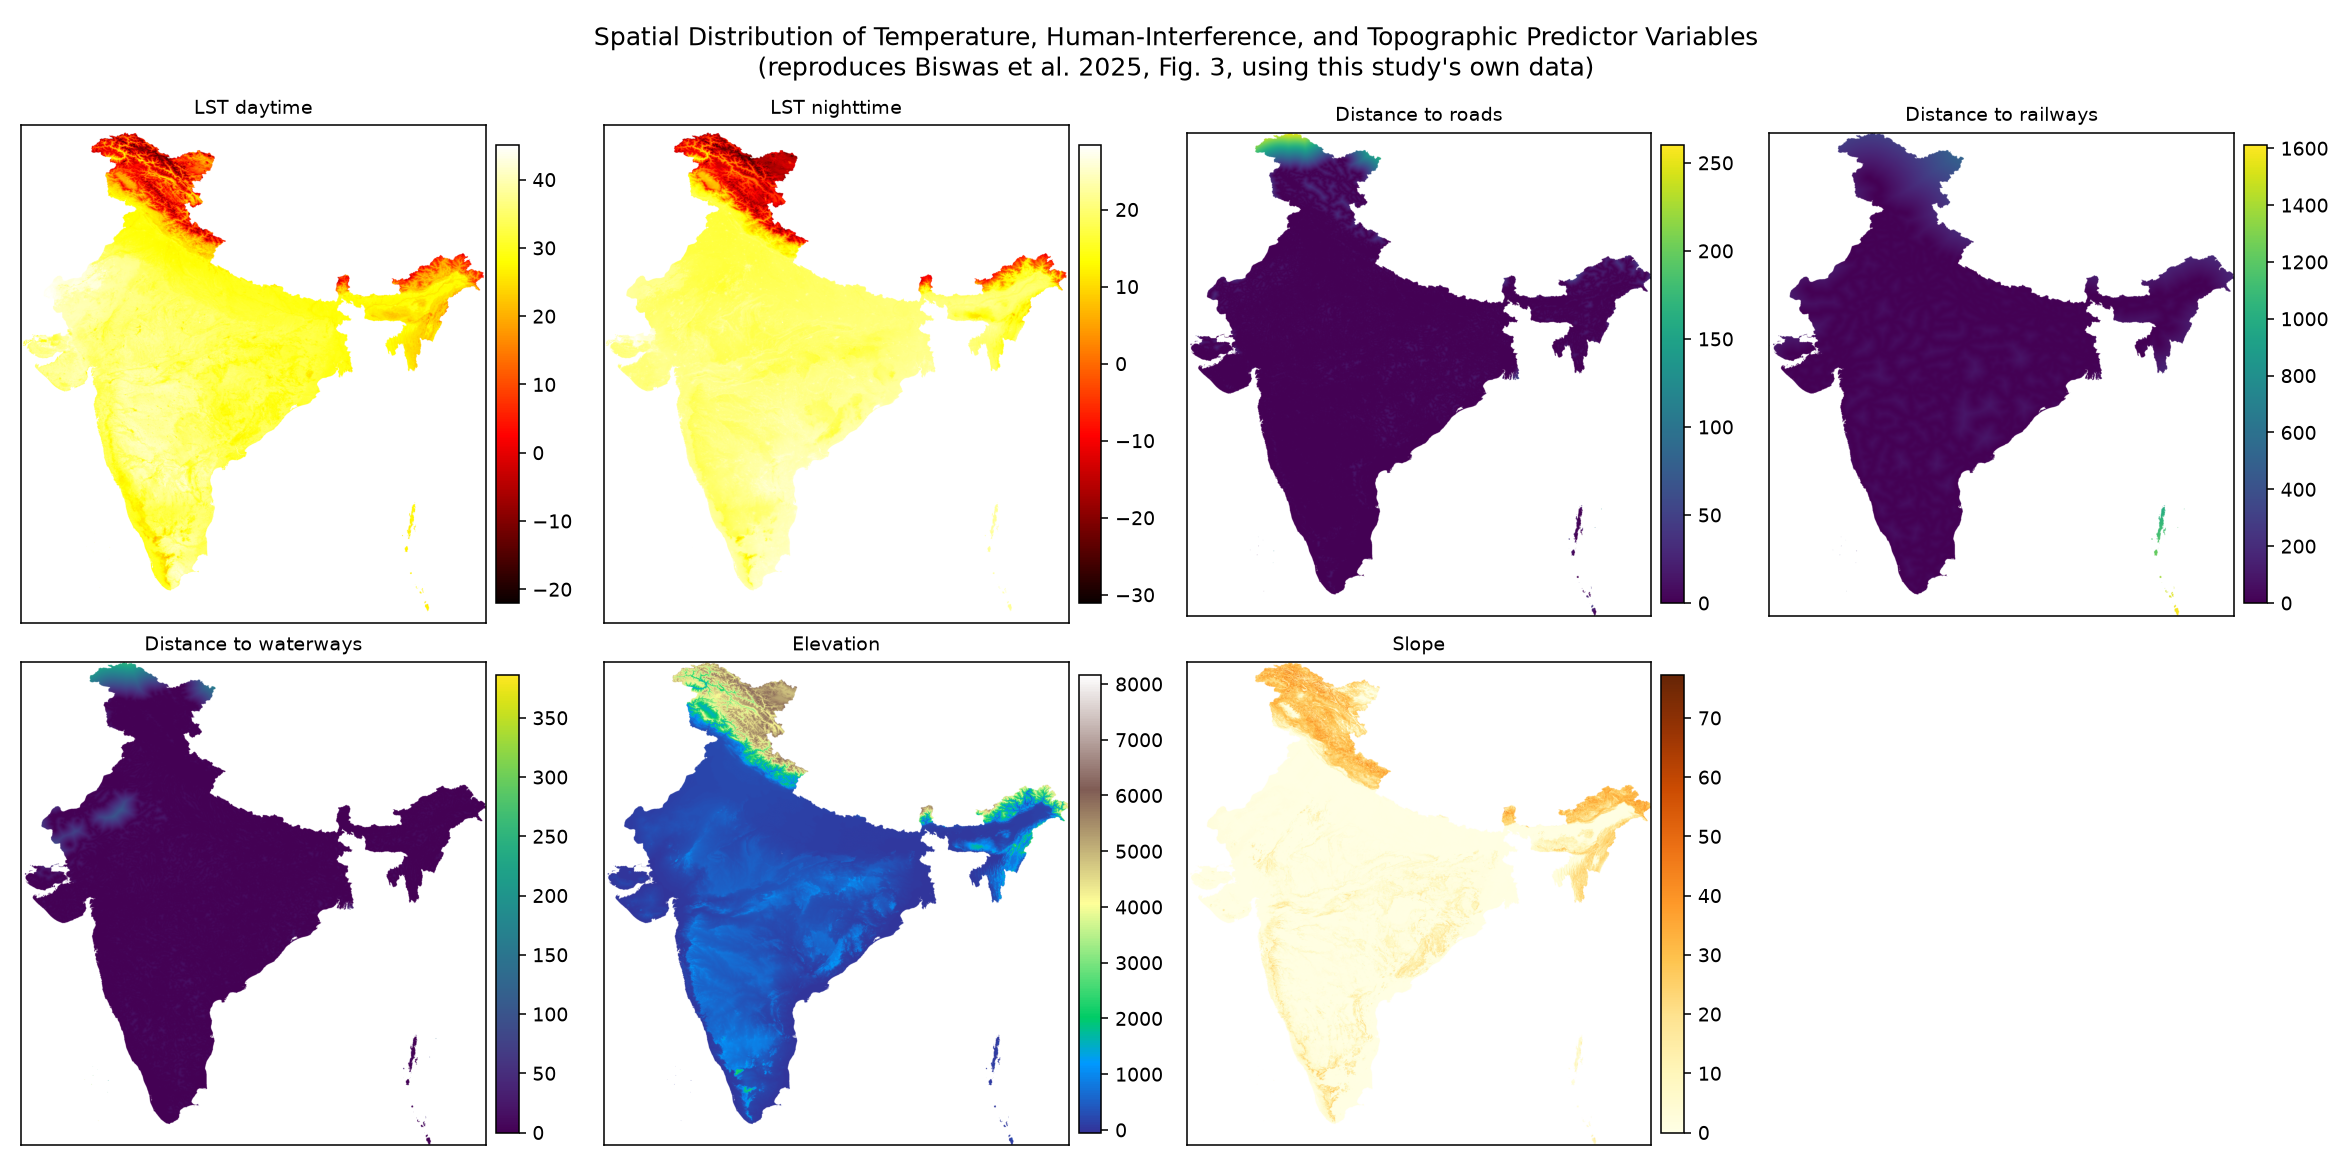
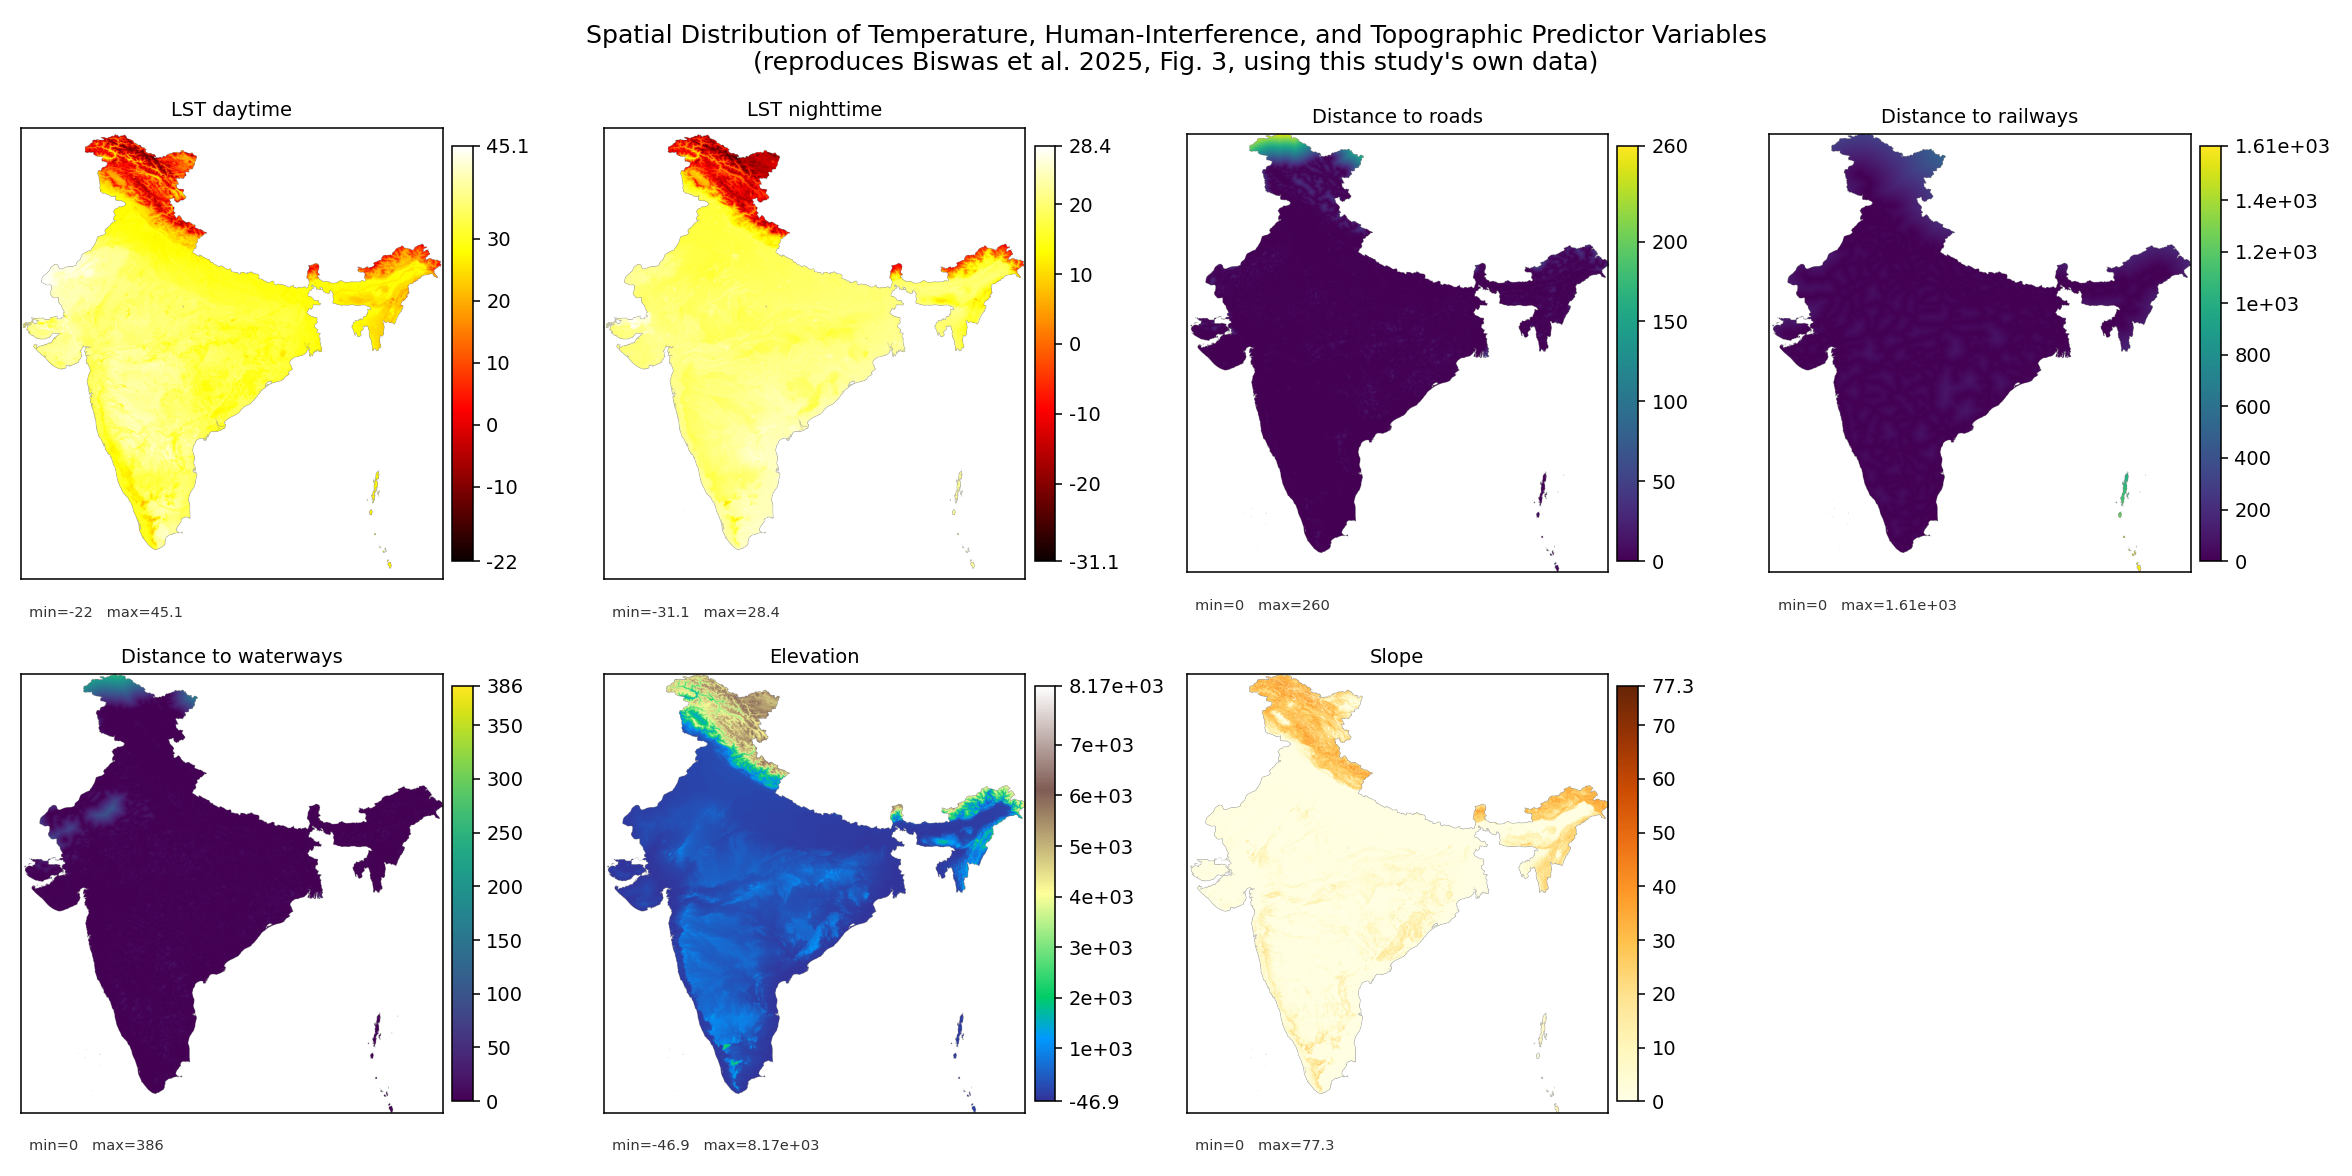
Add explicit min/max value annotations to Fig 2/3 predictor maps
Colorbars previously auto-scaled to each variable's data range but only
showed matplotlib's auto-rounded ticks, with no explicit numeric min/max
readout -- a reader couldn't tell the true data extremes from rounded
gridlines alone. Now pins the colorbar's own end ticks to the exact min/max
and adds a min=/max= text annotation under each panel. Also drops auto-ticks
within 8% of the range endpoints to avoid label collisions with the pinned
values (seen initially on Distance to railways/Elevation).

diff --git a/Biswas_Comparison_Figures/fig02_03_predictor_maps.py b/Biswas_Comparison_Figures/fig02_03_predictor_maps.py
@@ -40,9 +40,23 @@ def plot_panel(items, title, out_name, ncols=4):
             with rasterio.open(path) as src:
                 arr = src.read(1, masked=True)
                 bounds = src.bounds
-            im = ax.imshow(arr, cmap=cmap, extent=[bounds.left, bounds.right, bounds.bottom, bounds.top])
-            fig.colorbar(im, ax=ax, fraction=0.046, pad=0.02)
+            vmin, vmax = float(arr.min()), float(arr.max())
+            im = ax.imshow(arr, cmap=cmap, vmin=vmin, vmax=vmax,
+                            extent=[bounds.left, bounds.right, bounds.bottom, bounds.top])
+            cbar = fig.colorbar(im, ax=ax, fraction=0.046, pad=0.02)
+            # Pin the colorbar's own end ticks to the exact data min/max (not
+            # matplotlib's auto-rounded ticks), so the figure itself states the
+            # real range instead of leaving the reader to infer it from rounded
+            # gridlines.
+            # Drop auto-ticks too close to vmin/vmax (within 8% of the range) so the
+            # pinned exact min/max labels don't collide with a neighboring auto tick.
+            margin = 0.08 * (vmax - vmin)
+            existing_ticks = [t for t in cbar.get_ticks() if vmin + margin < t < vmax - margin]
+            cbar.set_ticks([vmin] + existing_ticks + [vmax])
+            cbar.set_ticklabels([f"{vmin:.3g}"] + [f"{t:.3g}" for t in existing_ticks] + [f"{vmax:.3g}"])
             ax.set_title(name, fontsize=10)
+            ax.text(0.02, -0.06, f"min={vmin:.3g}   max={vmax:.3g}",
+                     transform=ax.transAxes, fontsize=7.5, ha="left", va="top", color="#333333")
             ax.set_xticks([]); ax.set_yticks([])
         except Exception as e:
             ax.text(0.5, 0.5, f"{name}\n(load error: {e})", ha="center", va="center", transform=ax.transAxes, fontsize=8)
